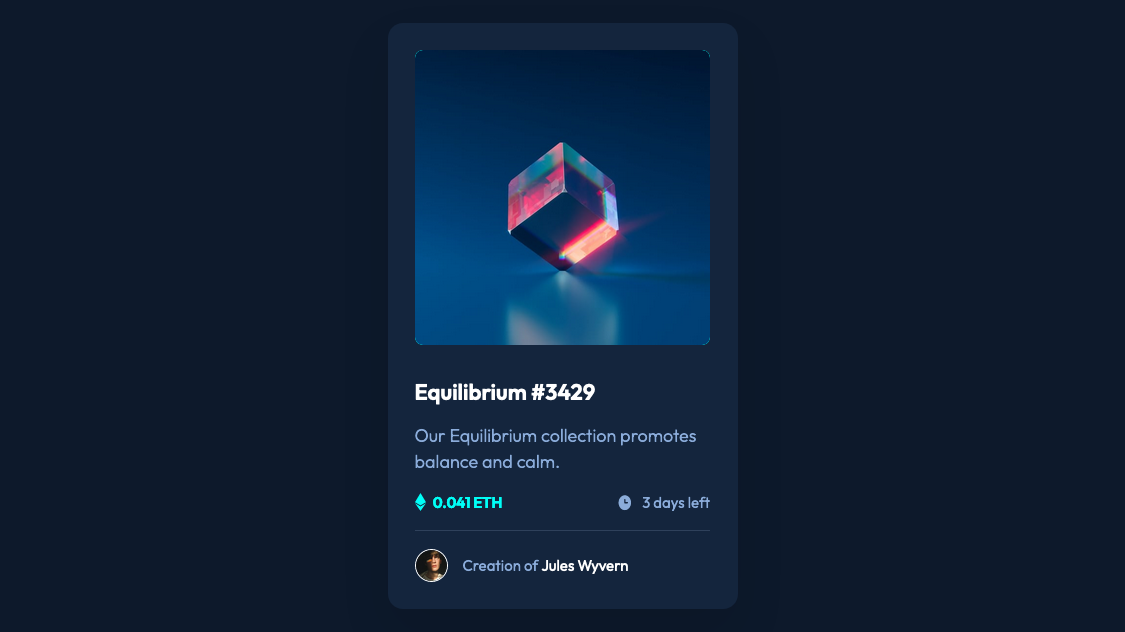
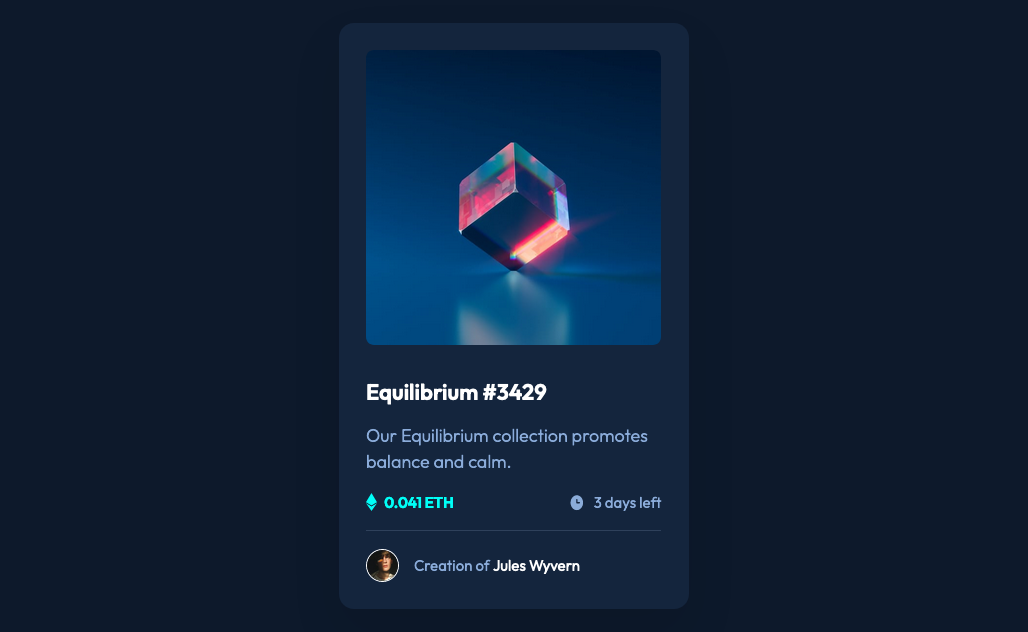
fix overlay update README.md

diff --git a/style.css b/style.css
@@ -90,35 +90,35 @@ body {
     background-color: var(--dark-blue-card-BG);
 }
 
-.main__image {
-    border-radius: inherit;
-    z-index: 1;
-}
-
-.main__image:hover {
-    opacity: 0.5;
+.cont_main-img {
+   position: relative;
 }
 
 .overlay {
-    display: grid;
-    place-items: center;
-    grid-template-areas: main;
-    background: var(--symbol-color);
-    border-radius: 8px;
-    overflow: hidden;
+    position: absolute;
+    top: 0;
+    left: 0;
+    bottom: 0;
+    right: 0;
+    width: 295px;
+    height: 295px;
+    opacity: 0;
+    transform: .3s ease;
     cursor: pointer;
+    border-radius: 8px;
+    background:hsla(178, 100%, 50%, .50);
 }
 
-.overlay > * {
-    grid-area: main;
+.icon{
+    color: #fff;
+    position: absolute;
+    top: 40%;
+    left: 40%;
+    text-align: center;
 }
 
-.overlay > .eye-icon {
-    z-index: 0;
-}
-
-.overlay:is(:hover, :focus)>.eye-icon {
-    z-index: 1;
+.eq-image {
+    border-radius: 8px;
 }
 
 .main__title {
@@ -211,15 +211,16 @@ hr {
     color: var(--soft-blue)
 }
 
+.cont_main-img:hover .overlay {
+    opacity: 0.8;
+
+}
+
 @media(min-width: 327px){
     .container{
         max-width: 350px;
     }
 }
 
-@media(min-width: 375px) {
-    body{
-        max-width: 1440px;
-    }
-}
+
 

diff --git a/index.html b/index.html
@@ -11,9 +11,11 @@
 <body>
   <main class="container main__bg">
     <article>
-      <div class="overlay">
-        <img class="main__image" src="./images/image-equilibrium.jpg" alt="nft art in the shape of a multi-colored cube">
-        <img src="./images/icon-view.svg" class="eye-icon" alt="">
+      <div class="cont_main-img">
+        <img class="eq-image" src="./images/image-equilibrium.jpg" alt="nft art in the shape of a multi-colored cube">
+        <div class="overlay">
+        <img src="./images/icon-view.svg" class="icon" alt="">
+        </div>
       </div>
       
       <h2 class="main__title">Equilibrium #3429</h2>

diff --git a/README.md b/README.md
@@ -23,7 +23,7 @@ Your users should be able to:
 
 ### Screenshot
 
-![Screenshot](https://github.com/CalderonVasquez/nft-preview-card/blob/45dee15a0215608fcad8d300ccd891e7dd470f13/screenshot/NFT%20preview%20card%20component.png)
+![Screenshot](https://github.com/CalderonVasquez/nft-preview-card/blob/901be491cf4b6de42136861705e5bf71b9b61f13/screenshot/NFT%20preview%20card%20component.png)
 
 ### Links
 
